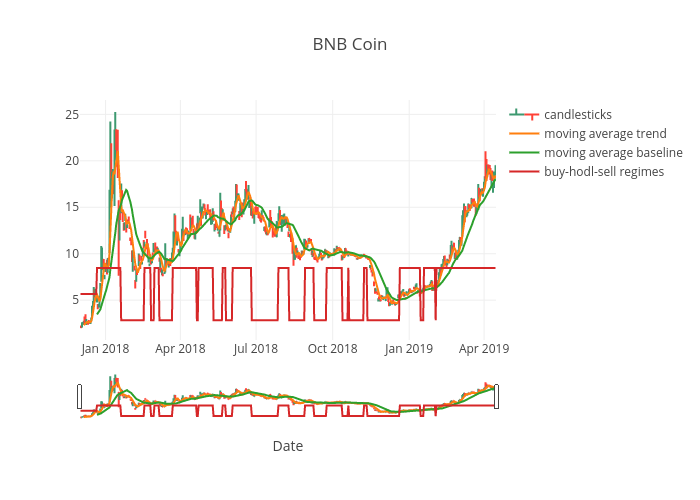
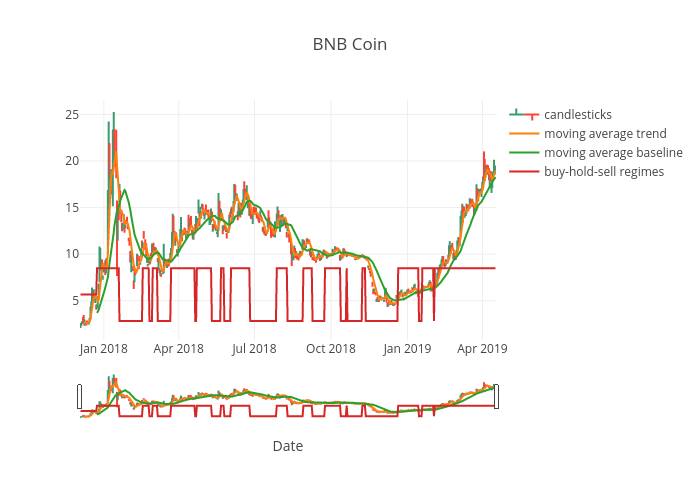
changes writing

diff --git a/plotly_plots.py b/plotly_plots.py
@@ -45,7 +45,7 @@ def plyfin(hist_data,ticker_name,roll_mean1,roll_mean2,crypto):
     
     trace4 = go.Scatter(x=hist_data.index,
                         y=hist_data['regplot'],
-                        name = 'buy-hodl-sell regimes')
+                        name = 'buy-hold-sell regimes')
     
     data = [trace,trace2,trace3,trace4]
     

diff --git a/GBM.py b/GBM.py
@@ -6,7 +6,7 @@ Created on Sat Jul  7 00:27:07 2018
 """
 
 '''
-Geometric Brownian Motion (GBM) algorithm for stock prediction
+Geometric Brownian Motion (GBM) algorithm 
 
 trading days:
 annual drift (mu) and volatility (sig)

diff --git a/README.md b/README.md
@@ -24,11 +24,4 @@ Published code _**backtest_simple.py**_ is an **ADAPTED** script from the script
 <a href="https://plot.ly/~andrewrgarcia/42.embed"><img src="BNB Coin Strategy Assessment.png" alt="drawing" width="500"/>
 
 
-## blackswanclimb.py
-
-[in .gitignore] _**blackswanclimb.py**_ is an optimization script which integrates _**backtest_simple.py**_ to a brute force Monte Carlo method (not pushed here; confidential) which finds optimal backtesting parameters for a certain stock, indicating **"BUY/HOLD/SELL"** regimes for a certain trading window.
-
-
 <img src="black_swan.jpg" alt="drawing" width="350"/>
-
-**It's a black swan!**
